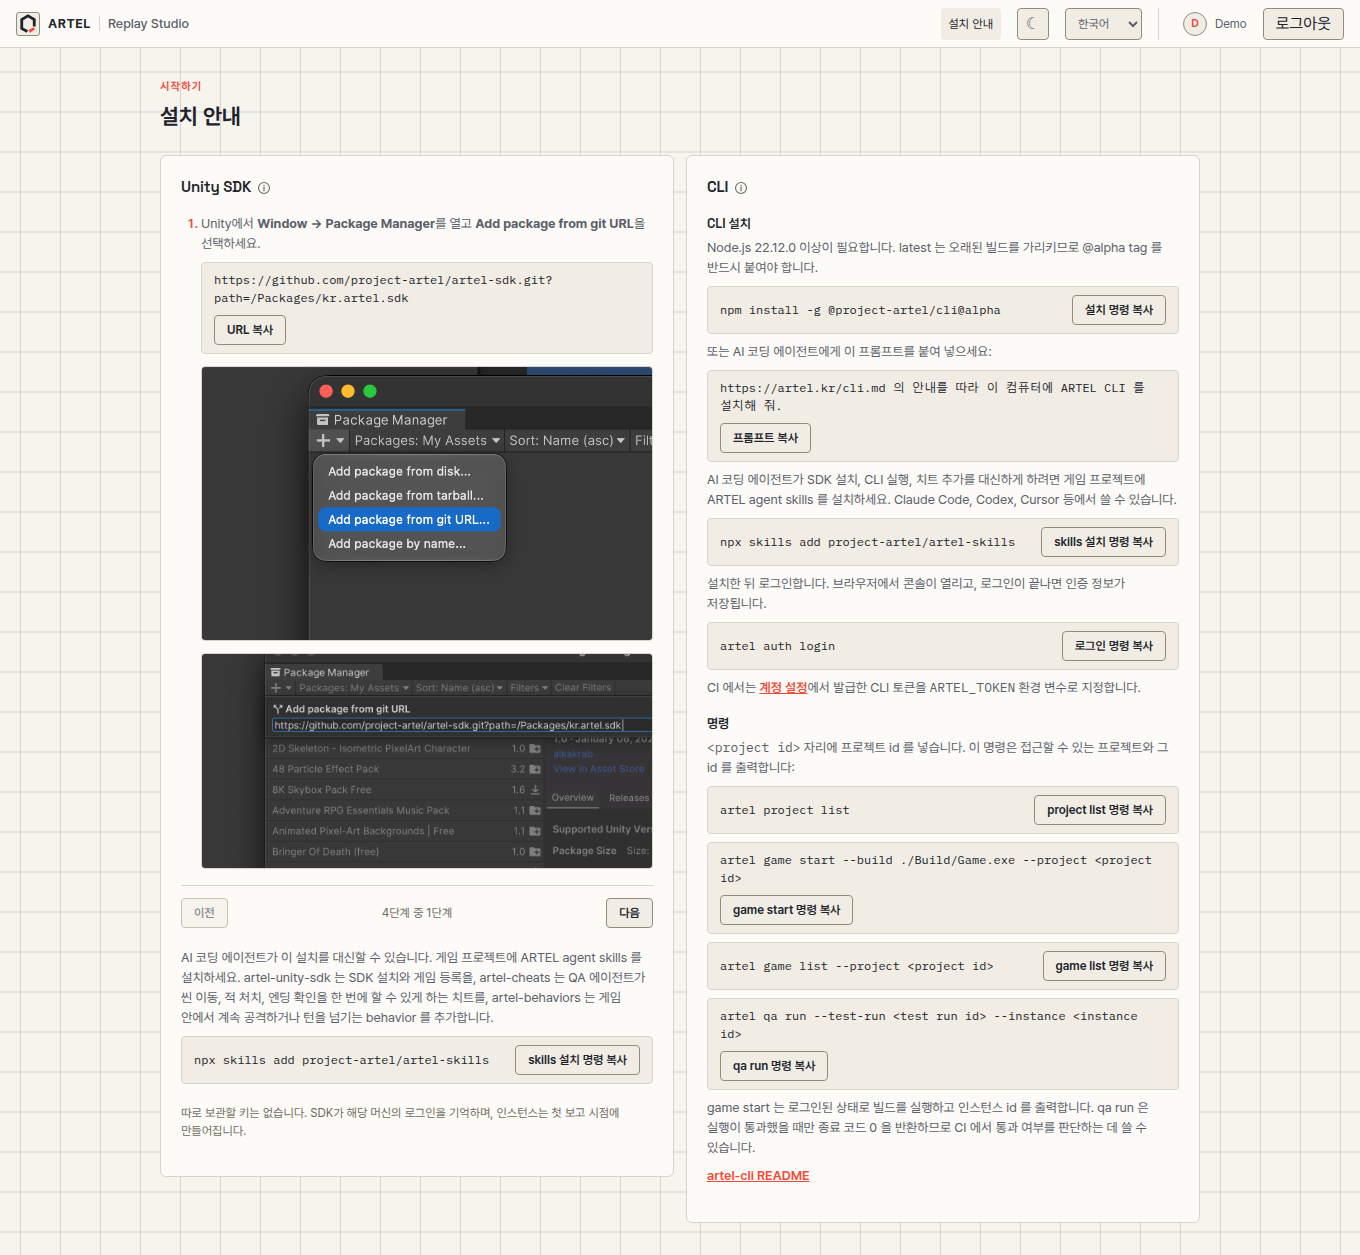
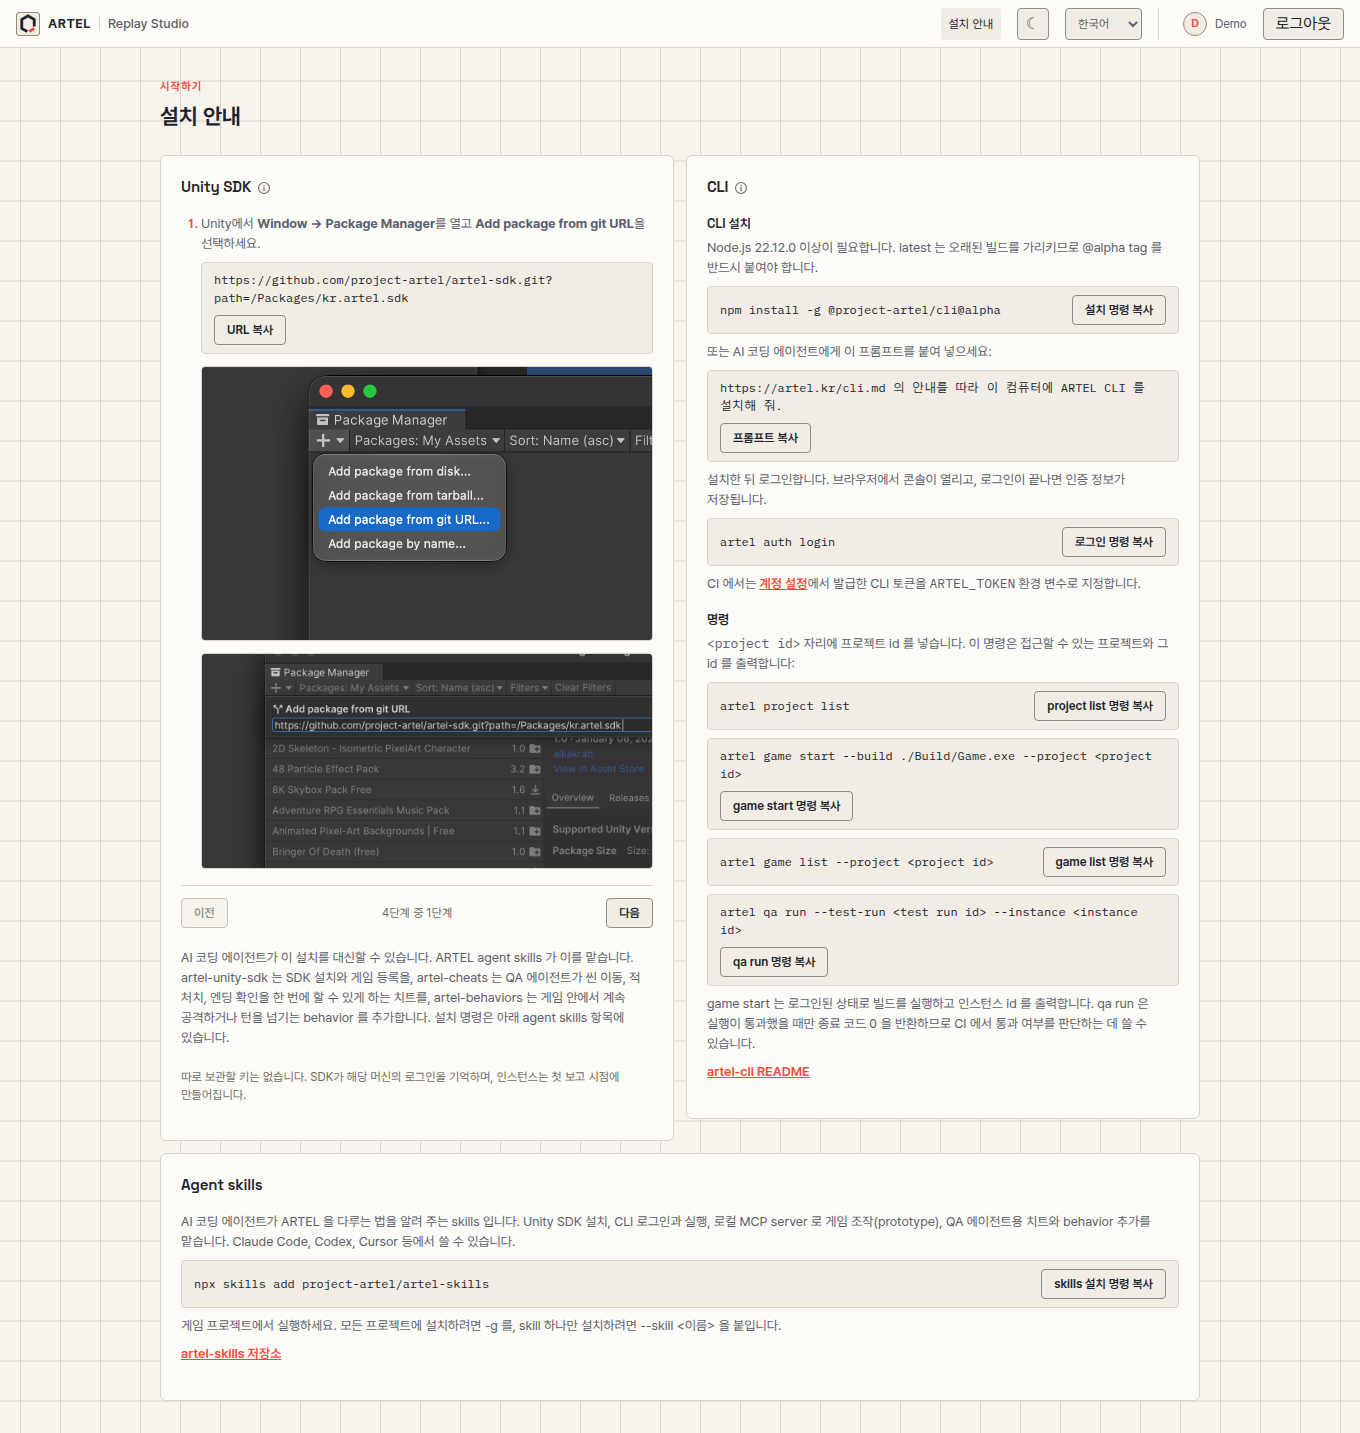
feat(setup): artel-skills 설치 안내를 CLI 단계에서 분리해 설정 안내 화면에 별도 블록으로 추가
CliInstallSteps 에서 skills 문구와 복사 버튼을 빼고, AgentSkillsInstall 컴포넌트를
만들어 설정 안내 화면 아래에 Agent skills 블록으로 그렸다. 설치 명령, 설명,
artel-skills 저장소 링크가 들어 있다. SdkInstallGuide 는 명령 없이 skills 이름만
적고 아래 블록을 가리킨다. 계정 설정 화면은 CLI 토큰 관리 화면이라 넣지 않았다.

Jira: ARTEL-1094

diff --git a/src/i18n/messages/projects.ts b/src/i18n/messages/projects.ts
@@ -230,9 +230,7 @@ export const projectsEn = {
     shot4ProjectPickerAlt: 'The Artel SDK screen in the game listing projects to connect to.',
     shot4InstanceConnectedAlt: 'The game instance list in Artel showing the new instance as Connected.',
     skillsIntro:
-      'An AI coding agent can do this setup for you. Install the ARTEL agent skills in your game project: artel-unity-sdk installs the SDK and registers the game, artel-cheats adds cheats so the QA agent can jump to a scene, defeat enemies, or reach the ending in one call, and artel-behaviors adds routines that keep attacking or passing turns inside the game.',
-    copySkills: 'Copy skills install command',
-    skillsCopied: 'Skills install command copied.',
+      'An AI coding agent can do this setup for you. The ARTEL agent skills cover it: artel-unity-sdk installs the SDK and registers the game, artel-cheats adds cheats so the QA agent can jump to a scene, defeat enemies, or reach the ending in one call, and artel-behaviors adds routines that keep attacking or passing turns inside the game. The install command is in the agent skills section below.',
     note: 'There is no key to keep. The SDK remembers the sign-in on that machine, and the instance is created by the first report.',
   },
   /**
@@ -245,6 +243,12 @@ export const projectsEn = {
     title: 'Setup guide',
     sdkTitle: 'Unity SDK',
     sdkIntro: 'Follow these steps once per machine to connect a game to a project.',
+    skillsTitle: 'Agent skills',
+    skillsIntro: 'Skills that teach an AI coding agent how to work with ARTEL: install the Unity SDK, sign in to and run the CLI, drive the game from a local MCP server (prototype), and add cheats and behaviors for the QA agent. Works with Claude Code, Codex, Cursor, and others.',
+    skillsInstallNote: 'Run this in your game project. Add -g to install for every project, or --skill <name> for one skill.',
+    copySkills: 'Copy skills install command',
+    skillsCopied: 'Skills install command copied.',
+    skillsRepo: 'artel-skills repository',
     cliTitle: 'CLI',
     cliIntro: 'Start games and QA runs from a terminal or from CI.',
     ciBefore: 'In CI, set a CLI token from ',
@@ -661,9 +665,7 @@ export const projectsKo: Localized<typeof projectsEn> = {
     shot4ProjectPickerAlt: '게임 안의 Artel SDK 화면에 연결할 프로젝트 목록이 표시된 화면.',
     shot4InstanceConnectedAlt: 'Artel의 게임 인스턴스 목록에 새 인스턴스가 연결됨으로 표시된 화면.',
     skillsIntro:
-      'AI 코딩 에이전트가 이 설치를 대신할 수 있습니다. 게임 프로젝트에 ARTEL agent skills 를 설치하세요. artel-unity-sdk 는 SDK 설치와 게임 등록을, artel-cheats 는 QA 에이전트가 씬 이동, 적 처치, 엔딩 확인을 한 번에 할 수 있게 하는 치트를, artel-behaviors 는 게임 안에서 계속 공격하거나 턴을 넘기는 behavior 를 추가합니다.',
-    copySkills: 'skills 설치 명령 복사',
-    skillsCopied: 'skills 설치 명령을 복사했습니다.',
+      'AI 코딩 에이전트가 이 설치를 대신할 수 있습니다. ARTEL agent skills 가 이를 맡습니다. artel-unity-sdk 는 SDK 설치와 게임 등록을, artel-cheats 는 QA 에이전트가 씬 이동, 적 처치, 엔딩 확인을 한 번에 할 수 있게 하는 치트를, artel-behaviors 는 게임 안에서 계속 공격하거나 턴을 넘기는 behavior 를 추가합니다. 설치 명령은 아래 agent skills 항목에 있습니다.',
     note: '따로 보관할 키는 없습니다. SDK가 해당 머신의 로그인을 기억하며, 인스턴스는 첫 보고 시점에 만들어집니다.',
   },
   setup: {
@@ -671,6 +673,12 @@ export const projectsKo: Localized<typeof projectsEn> = {
     title: '설치 안내',
     sdkTitle: 'Unity SDK',
     sdkIntro: '게임 하나를 프로젝트에 연결하려면 머신마다 한 번씩 다음 단계를 따르세요.',
+    skillsTitle: 'Agent skills',
+    skillsIntro: 'AI 코딩 에이전트가 ARTEL 을 다루는 법을 알려 주는 skills 입니다. Unity SDK 설치, CLI 로그인과 실행, 로컬 MCP server 로 게임 조작(prototype), QA 에이전트용 치트와 behavior 추가를 맡습니다. Claude Code, Codex, Cursor 등에서 쓸 수 있습니다.',
+    skillsInstallNote: '게임 프로젝트에서 실행하세요. 모든 프로젝트에 설치하려면 -g 를, skill 하나만 설치하려면 --skill <이름> 을 붙입니다.',
+    copySkills: 'skills 설치 명령 복사',
+    skillsCopied: 'skills 설치 명령을 복사했습니다.',
+    skillsRepo: 'artel-skills 저장소',
     cliTitle: 'CLI',
     cliIntro: '터미널이나 CI 에서 게임과 QA 실행을 시작합니다.',
     ciBefore: 'CI 에서는 ',

diff --git a/src/projects/AgentSkillsInstall.tsx b/src/projects/AgentSkillsInstall.tsx
@@ -1,0 +1,41 @@
+import { useState } from 'react'
+import { CliCopyLine } from '../auth/CliInstallSteps'
+import { useI18n } from '../i18n/useI18n'
+
+/** Installs the ARTEL agent skills into the current project; `-g` makes them global. */
+export const SKILLS_INSTALL_COMMAND = 'npx skills add project-artel/artel-skills'
+export const SKILLS_REPOSITORY_URL = 'https://github.com/project-artel/artel-skills'
+
+/**
+ * What the ARTEL agent skills are, the command that installs them, and a link
+ * to their repository. It is separate from the CLI steps on purpose: the skills
+ * cover the SDK, the CLI, the MCP server, and cheats, so they belong to none of
+ * those sections. It owns its `aria-live` region for the copy result.
+ */
+export function AgentSkillsInstall() {
+  const { t } = useI18n()
+  const copy = t.projects.setup
+  const [announcement, setAnnouncement] = useState('')
+
+  return (
+    <section aria-labelledby="setup-skills-title" className="panel setup-skills">
+      <header className="panel-header">
+        <h2 id="setup-skills-title">{copy.skillsTitle}</h2>
+      </header>
+      <div className="cli-install-guide">
+        <p className="guide-copy">{copy.skillsIntro}</p>
+        <CliCopyLine
+          copiedMessage={copy.skillsCopied}
+          copyLabel={copy.copySkills}
+          onResult={setAnnouncement}
+          text={SKILLS_INSTALL_COMMAND}
+        />
+        <p className="guide-copy">{copy.skillsInstallNote}</p>
+        <p className="guide-copy">
+          <a href={SKILLS_REPOSITORY_URL} rel="noreferrer" target="_blank">{copy.skillsRepo}</a>
+        </p>
+      </div>
+      <p aria-live="polite" className="visually-hidden">{announcement}</p>
+    </section>
+  )
+}

diff --git a/src/i18n/messages/account.ts b/src/i18n/messages/account.ts
@@ -64,9 +64,6 @@ export const accountEn = {
       agentPrompt: (guideUrl: string) => `Install the ARTEL CLI on this machine by following ${guideUrl}`,
       copyAgentPrompt: 'Copy prompt',
       agentPromptCopied: 'Prompt copied.',
-      skillsIntro: 'To let your AI coding agent set up the SDK, run the CLI, and add cheats, install the ARTEL agent skills in your game project. Works with Claude Code, Codex, Cursor, and others.',
-      copySkills: 'Copy skills install command',
-      skillsCopied: 'Skills install command copied.',
       signIn: 'Then sign in. This opens the console in your browser and stores the credential.',
       copyLogin: 'Copy sign-in command',
       loginCopied: 'Sign-in command copied.',
@@ -205,9 +202,6 @@ export const accountKo: Localized<typeof accountEn> = {
       agentPrompt: (guideUrl: string) => `${guideUrl} 의 안내를 따라 이 컴퓨터에 ARTEL CLI 를 설치해 줘.`,
       copyAgentPrompt: '프롬프트 복사',
       agentPromptCopied: '프롬프트를 복사했습니다.',
-      skillsIntro: 'AI 코딩 에이전트가 SDK 설치, CLI 실행, 치트 추가를 대신하게 하려면 게임 프로젝트에 ARTEL agent skills 를 설치하세요. Claude Code, Codex, Cursor 등에서 쓸 수 있습니다.',
-      copySkills: 'skills 설치 명령 복사',
-      skillsCopied: 'skills 설치 명령을 복사했습니다.',
       signIn: '설치한 뒤 로그인합니다. 브라우저에서 콘솔이 열리고, 로그인이 끝나면 인증 정보가 저장됩니다.',
       copyLogin: '로그인 명령 복사',
       loginCopied: '로그인 명령을 복사했습니다.',

diff --git a/src/projects/SetupGuide.tsx b/src/projects/SetupGuide.tsx
@@ -3,6 +3,7 @@ import { Link } from 'react-router-dom'
 import { CliCopyLine, CliInstallSteps, CLI_README_URL } from '../auth/CliInstallSteps'
 import { InfoHint } from '../design-system/primitives/InfoHint'
 import { useI18n } from '../i18n/useI18n'
+import { AgentSkillsInstall } from './AgentSkillsInstall'
 import { SdkInstallGuide } from './SdkInstallGuide'
 
 /** Stands in for the id on the global page, in the same form as the other placeholders. */
@@ -22,19 +23,22 @@ export function SetupGuide({ projectId }: { projectId?: string }) {
   const copy = t.projects.setup
 
   return (
-    <div className="section-columns">
-      <section className="panel" aria-labelledby="setup-sdk-title">
-        <header className="panel-header">
-          <h2 id="setup-sdk-title">
-            {copy.sdkTitle}
-            <InfoHint>{copy.sdkIntro}</InfoHint>
-          </h2>
-        </header>
-        <SdkInstallGuide />
-      </section>
+    <>
+      <div className="section-columns">
+        <section className="panel" aria-labelledby="setup-sdk-title">
+          <header className="panel-header">
+            <h2 id="setup-sdk-title">
+              {copy.sdkTitle}
+              <InfoHint>{copy.sdkIntro}</InfoHint>
+            </h2>
+          </header>
+          <SdkInstallGuide />
+        </section>
 
-      <CliSetupPanel projectId={projectId} />
-    </div>
+        <CliSetupPanel projectId={projectId} />
+      </div>
+      <AgentSkillsInstall />
+    </>
   )
 }
 

diff --git a/src/projects/SdkInstallGuide.tsx b/src/projects/SdkInstallGuide.tsx
@@ -1,6 +1,5 @@
 import { useEffect, useRef, useState } from 'react'
 import { CopyButton } from './CopyButton'
-import { CliCopyLine, SKILLS_INSTALL_COMMAND } from '../auth/CliInstallSteps'
 import { useI18n } from '../i18n/useI18n'
 import addPackageFromGitUrlShot from '../assets/sdk-guide/step1-add-package-from-git-url.png'
 import gitUrlInputShot from '../assets/sdk-guide/step1-git-url-input.png'
@@ -201,17 +200,9 @@ export function SdkInstallGuide() {
         </button>
       </div>
 
-      {/* Same command as the CLI install steps: one install covers the SDK
-          setup (`artel-unity-sdk`) and the cheats and behaviors (`artel-cheats`, `artel-behaviors`). */}
-      <div className="cli-install-guide guide-skills">
-        <p className="guide-copy">{t.projects.guide.skillsIntro}</p>
-        <CliCopyLine
-          copiedMessage={t.projects.guide.skillsCopied}
-          copyLabel={t.projects.guide.copySkills}
-          onResult={setAnnouncement}
-          text={SKILLS_INSTALL_COMMAND}
-        />
-      </div>
+      {/* Only names the skills that matter for this guide; the install command
+          lives in the agent skills block below it (`AgentSkillsInstall`). */}
+      <p className="guide-copy guide-skills">{t.projects.guide.skillsIntro}</p>
 
       {/* The key is durable and has no re-issue endpoint, so it is worth saying
           plainly that closing this view does not lose it. */}

diff --git a/src/auth/CliInstallSteps.tsx b/src/auth/CliInstallSteps.tsx
@@ -5,8 +5,6 @@ import { useI18n } from '../i18n/useI18n'
 export const CLI_INSTALL_COMMAND = 'npm install -g @project-artel/cli@alpha'
 export const CLI_LOGIN_COMMAND = 'artel auth login'
 export const CLI_AGENT_GUIDE_URL = 'https://artel.kr/cli.md'
-/** Installs the four ARTEL agent skills (project scope); `-g` makes them global. */
-export const SKILLS_INSTALL_COMMAND = 'npx skills add project-artel/artel-skills'
 export const CLI_README_URL = 'https://github.com/project-artel/artel-cli#readme'
 
 /**
@@ -81,13 +79,6 @@ export function CliInstallSteps({
         copyLabel={copy.copyAgentPrompt}
         onResult={onResult}
         text={agentPrompt}
-      />
-      <p className="guide-copy">{copy.skillsIntro}</p>
-      <CliCopyLine
-        copiedMessage={copy.skillsCopied}
-        copyLabel={copy.copySkills}
-        onResult={onResult}
-        text={SKILLS_INSTALL_COMMAND}
       />
       <p className="guide-copy">{copy.signIn}</p>
       <CliCopyLine

diff --git a/src/App.css b/src/App.css
@@ -1599,6 +1599,10 @@ a.instance-name:hover {
   margin-top: var(--space-5);
 }
 
+.setup-skills {
+  margin-top: var(--space-3);
+}
+
 .guide-note {
   margin: var(--space-5) 0 var(--space-4);
   color: var(--color-text-muted);
